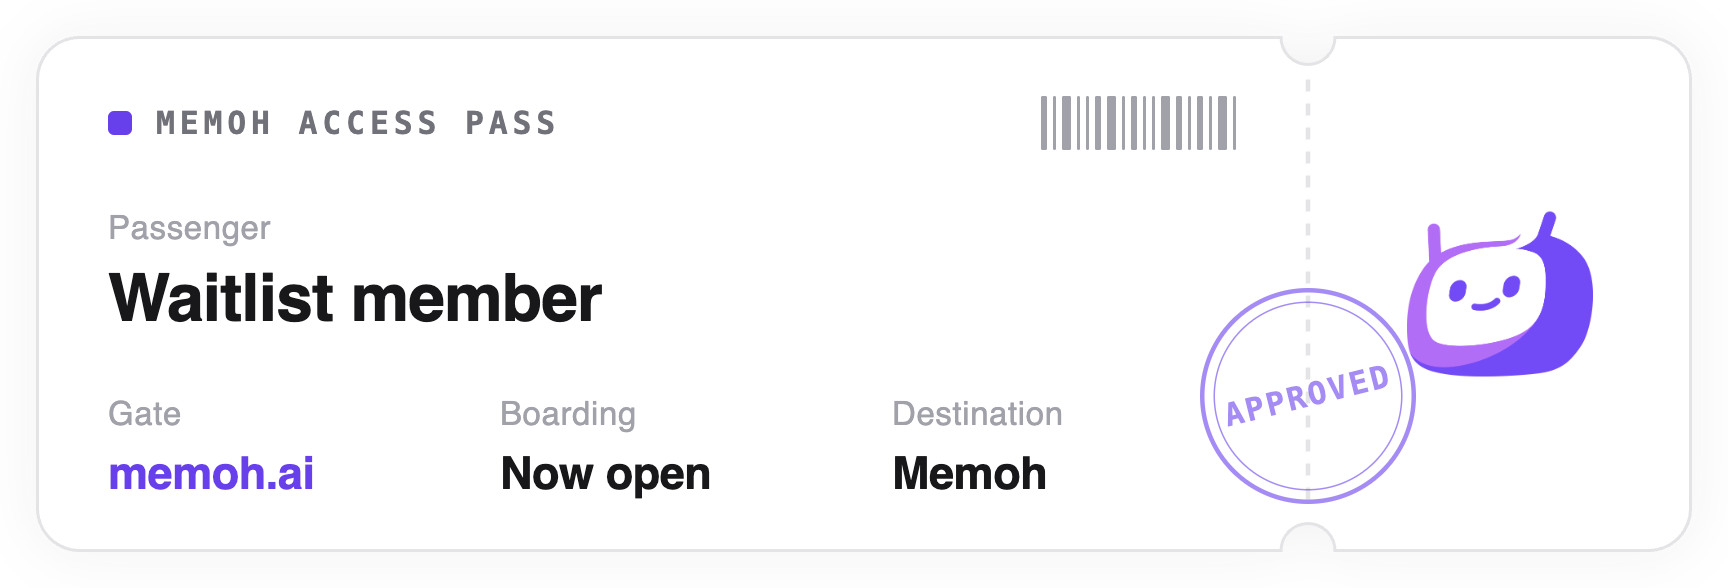
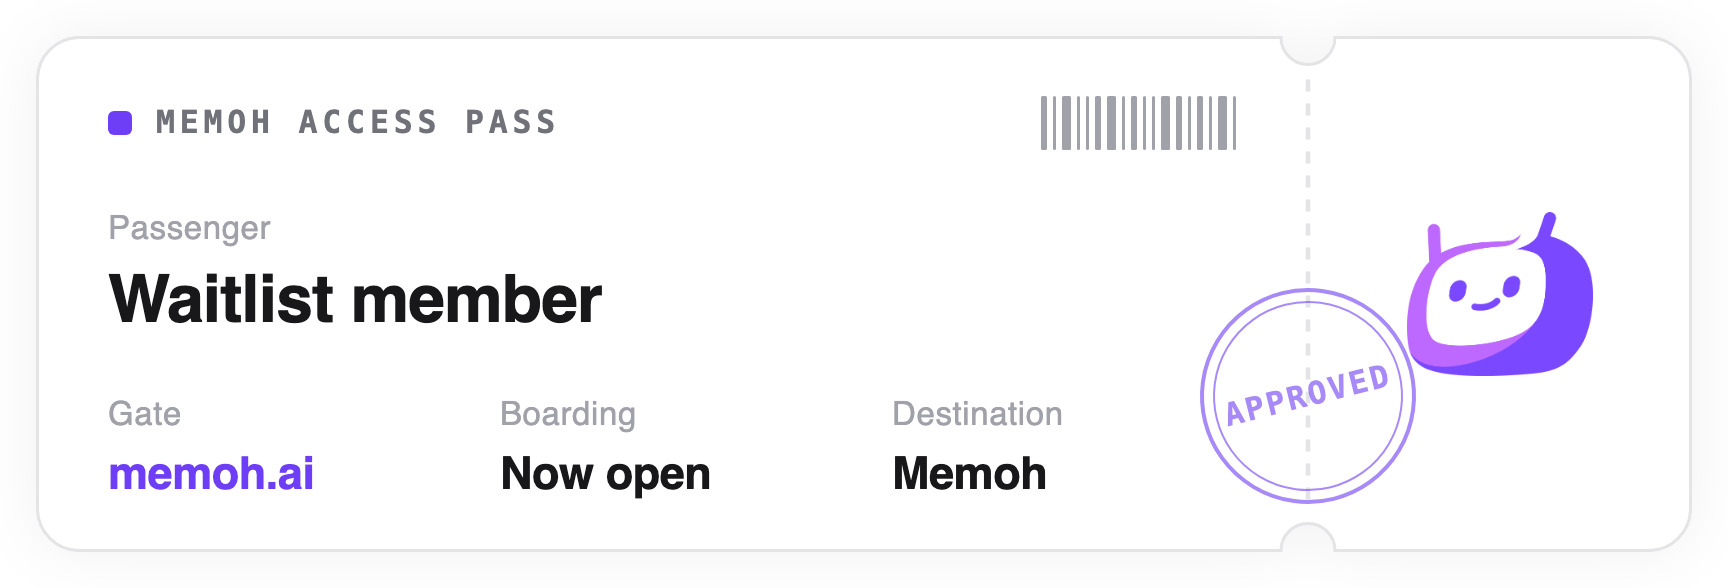
feat: 通行证卡片图外围改为透明，适配手机深色模式 (#29)
* feat(email): 通行证卡片图外围改为透明，适配手机深色模式

手机邮件客户端（Gmail App 等）进入深色模式时会把邮件背景改成深色，
但不改图片，原先整张 PNG 是白底，留白、阴影区和两个缺口都显示成一整块
白色矩形。新图把卡片轮廓以外改为透明，卡面保持白色，卡片文字在任何
模式下都可读；叠在白底上与原图逐像素一致，浅色模式不变。

同时把卡片源文件 card.html 和出图脚本放进 email-src/（不随站点部署）。
新图用 v2 文件名，旧图保留给已发出的邮件；模板改为引用新地址另在
Cloud 后台完成。

Refs: LAND-2

* refactor(email): 通行证卡片图改为原地覆盖，不再新增 v2 文件名

新图浅色模式下与原图一致，覆盖原文件即可生效，无需改 Cloud 模板，
已发出的邮件再打开也会显示透明版。

Refs: LAND-2

diff --git a/email-src/waitlist-pass/card.html b/email-src/waitlist-pass/card.html
@@ -1,0 +1,41 @@
+<!doctype html><html><head><meta charset="utf-8"><style>
+html,body{margin:0;background:transparent}
+#stage{width:576px;height:196px;display:flex;align-items:center;justify-content:center;background:transparent}
+.card{position:relative;width:552px;height:172px;display:flex;box-sizing:border-box;font-family:var(--f)}
+.outline{position:absolute;left:0;top:0;overflow:visible;filter:drop-shadow(0 0 10px rgba(24,24,27,.06))}
+.main{position:relative;flex:1;padding:20px 24px 18px 24px;display:flex;flex-direction:column;justify-content:space-between;box-sizing:border-box}
+.top{display:flex;align-items:center;justify-content:space-between;height:18px}
+.brand{display:flex;align-items:center;gap:8px;font:600 10.5px/1 'SF Mono',Menlo,monospace;letter-spacing:1.6px;color:#71717a}
+.sq{width:8px;height:8px;border-radius:2px;background:#6d3ef5}
+.bars{display:flex;align-items:stretch;gap:2px;height:18px}.bars i{display:block;background:#a1a1aa;border-radius:.5px}
+.lbl{font:500 11px/1 var(--f);color:#a1a1aa;margin-bottom:6px;letter-spacing:.2px}
+.who{font:600 22px/1.1 var(--f);color:#18181b;letter-spacing:-.3px}
+.row{display:grid;grid-template-columns:1fr 1fr 1fr;column-gap:16px}
+.val{font:600 15px/1.1 var(--f);color:#18181b;letter-spacing:-.15px}.val.link{color:#6d3ef5}
+.stub{position:relative;width:128px;display:flex;align-items:center;justify-content:center}
+.stamp{position:absolute;left:-36px;bottom:16px;width:72px;height:72px;z-index:2;border-radius:50%;border:1.5px solid #6d3ef5;display:flex;flex-direction:column;align-items:center;justify-content:center;gap:3px;color:#6d3ef5;opacity:.6;transform:rotate(-14deg);box-sizing:border-box}.stamp:before{content:'';position:absolute;inset:3px;border-radius:50%;border:.75px solid #6d3ef5}.stamp .en{font:700 8.5px/1 'SF Mono',Menlo,monospace;letter-spacing:1.2px}.stamp .loc{font:700 12.5px/1 var(--f);letter-spacing:.5px}
+.stub img{width:62px;height:auto;display:block}
+</style></head><body><div id="stage"><div class="card"><svg class="outline" width="552" height="172" viewBox="0 0 552 172"><path d="M14,0.5 H415 A9,9 0 0 0 433,0.5 H538 A14,14 0 0 1 551.5,14 V158 A14,14 0 0 1 538,171.5 H433 A9,9 0 0 0 415,171.5 H14 A14,14 0 0 1 0.5,158 V14 A14,14 0 0 1 14,0.5 Z" fill="#fff" stroke="#e4e4e7" stroke-width="1"/><line x1="424" y1="14.5" x2="424" y2="157.5" stroke="#e4e4e7" stroke-width="1.5" stroke-dasharray="4 4"/></svg>
+<div class="main">
+  <div class="top"><div class="brand"><span class="sq"></span>MEMOH ACCESS PASS</div><div class="bars" id="bars"></div></div>
+  <div><div class="lbl" id="l1"></div><div class="who" id="v1"></div></div>
+  <div class="row">
+    <div><div class="lbl" id="l2"></div><div class="val link">memoh.ai</div></div>
+    <div><div class="lbl" id="l3"></div><div class="val" id="v3"></div></div>
+    <div><div class="lbl" id="l4"></div><div class="val">Memoh</div></div>
+  </div>
+</div>
+<div class="stub"><img src="../../public/logo.png" alt=""><div class="stamp" id="stamp" hidden><span class="en">APPROVED</span><span class="loc" id="sl"></span></div></div>
+</div></div>
+<script>
+const w=[2,1,3,1,1,2,3,1,2,1,1,3,2,1,2,1,3,1];document.getElementById('bars').innerHTML=w.map(x=>`<i style="width:${x}px"></i>`).join('');
+const T={
+'en-US':['Passenger','Waitlist member','Gate','Boarding','Now open','Destination',"'Inter',-apple-system,'Segoe UI',sans-serif"],
+'zh-CN':['乘客','候补名单成员','登机口','登机','现已开放','目的地',"'PingFang SC','Noto Sans SC',-apple-system,sans-serif"],
+'zh-HK':['乘客','候補名單成員','登機口','登機','現已開放','目的地',"'PingFang HK','PingFang TC','Noto Sans TC',-apple-system,sans-serif"],
+'ja-JP':['搭乗者','ウェイトリスト登録者','搭乗口','搭乗','受付中','目的地',"'Hiragino Sans','Hiragino Kaku Gothic ProN','Noto Sans JP',-apple-system,sans-serif"]};
+const t=T[new URLSearchParams(location.search).get('l')||'en-US'];
+document.documentElement.style.setProperty('--f',t[6]);if(t===T['ja-JP'])document.head.insertAdjacentHTML('beforeend','<style>.who,.val{font-weight:700}</style>');
+const S={};const q=new URLSearchParams(location.search);if(q.get('stamp')){const st=document.getElementById('stamp');st.hidden=false;const k=q.get('l')||'en-US';if(S[k])document.getElementById('sl').textContent=S[k];else{st.querySelector('.loc').remove();st.querySelector('.en').style.cssText='font-size:10.5px;letter-spacing:.8px';}}
+['l1','v1','l2','l3','v3','l4'].forEach((id,i)=>document.getElementById(id).textContent=t[i]);
+</script></body></html>

diff --git a/email-src/waitlist-pass/README.md b/email-src/waitlist-pass/README.md
@@ -1,0 +1,8 @@
+# 候补通过邮件的通行证卡片
+
+`card.html` 是 `public/email/waitlist-pass-*.png` 的源文件，`render.mjs` 负责出图。这个目录不在 `public/` 下，不会随站点部署。
+
+- 邮件模板在 Memoh Cloud 后台维护（`iam.waitlist.approved.email`），按 locale 引用 `https://memoh.ai/email/waitlist-pass-<locale>.png`，显示尺寸 576×196。
+- 改卡片：编辑 `card.html`，在浏览器打开 `card.html?l=zh-CN&stamp=1` 预览；然后运行 `node email-src/waitlist-pass/render.mjs`，原地覆盖 `public/email/` 下的图。文件名不变，模板不用改，已发出的邮件再打开也会显示新图；memoh.ai 对图片的缓存是 `max-age=14400`（4 小时），邮件客户端的图片代理可能更久。
+- 已发布的图都带 `stamp=1`（压在撕口上的 APPROVED 章）。不带章的分支是早期对比用的。
+- 不要改文件名或删除这些图：模板和已经发出的邮件都按这个地址引用。
